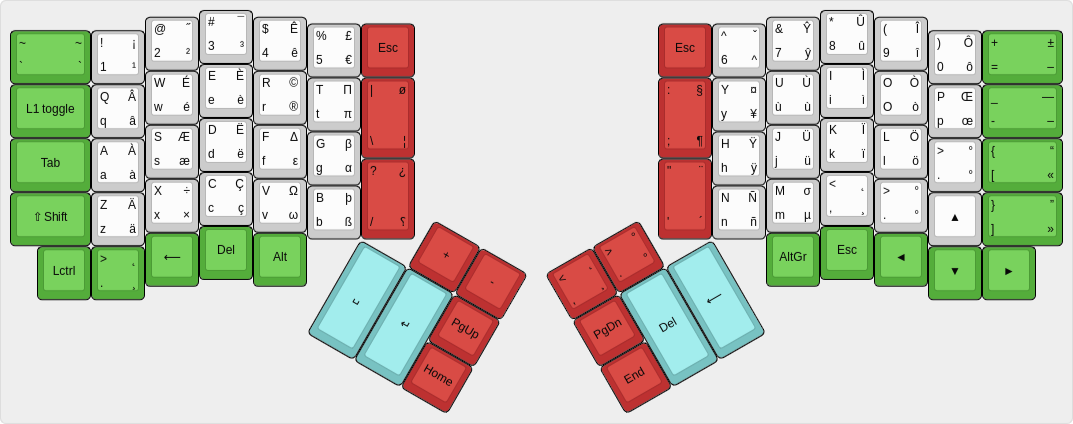
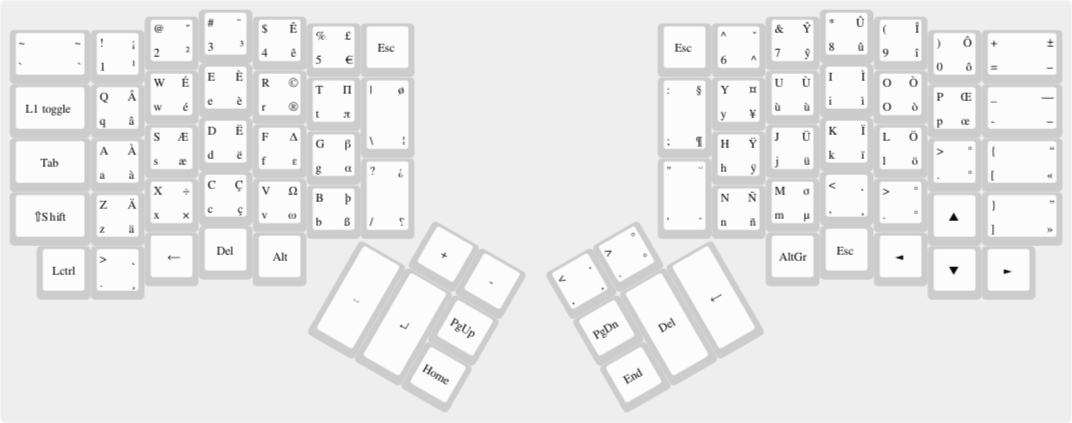
latest changes

diff --git a/README.md b/README.md
@@ -78,11 +78,19 @@ layer1:
 
 <a id="ergodox-hardware"></a>
 ### Hardware
-- Fully assembled MX-Brown switches Ergodox from fengsbay on ebay.
+#### keyboard 1
+- Fully assembled cherry MX Brown switches Ergodox from fengsbay on ebay.
 - Keycaps from https://pimpmykeyboard.com
 
+![keyboard1](./static/keyboard1.jpg "keyboard1")
 
-![Ergodox](./static/ergodox.jpg "Ergodox")
+#### keyboard 2
+- ErgoDox EZ (cherry MX Brown) [https://ergodox-ez.com](https://ergodox-ez.com)
+- Keycaps from https://pimpmykeyboard.com
+
+![keyboard2](./static/keyboard2.jpg "keyboard2")
+
+
 
 <a id="ergodox-known-issues"></a>
 ### Known issues

diff --git a/HISTORY.md b/HISTORY.md
@@ -1,5 +1,10 @@
 # History
 
+# 2020.02.08
+- Ordered ErgoDox EZ
+- Ordered Keycaps for new ErgoDox EZ
+- Updated keyboard layout visual (key colors are now all white)
+
 # 2019.03.25
 - Slight changes to the current Ergodox layout
 - Updated Ergodox visuals for layer0 and 1
